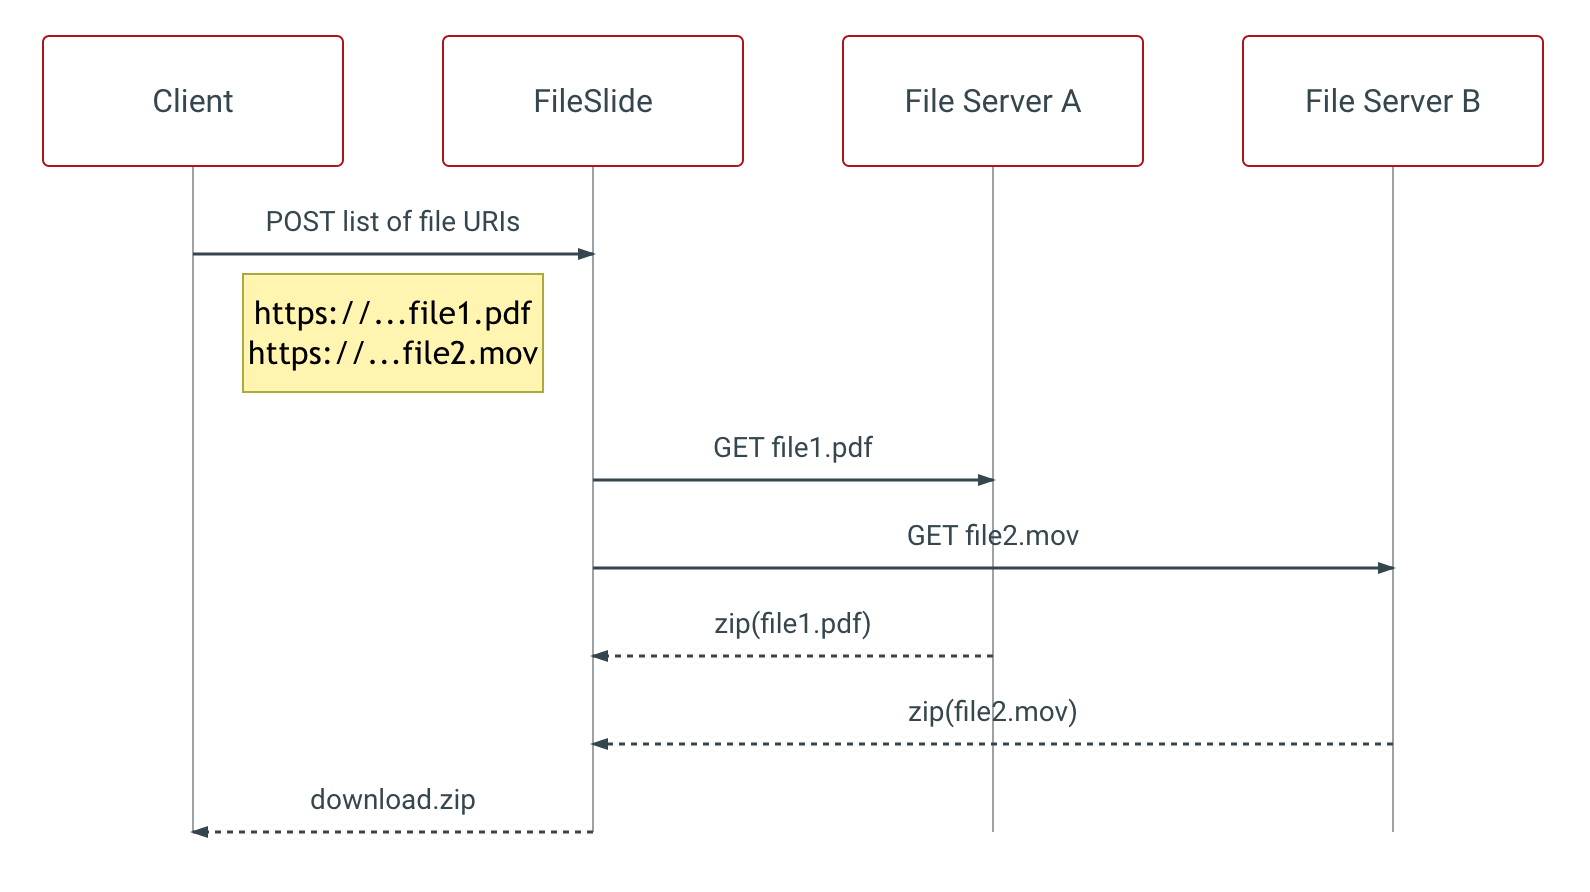
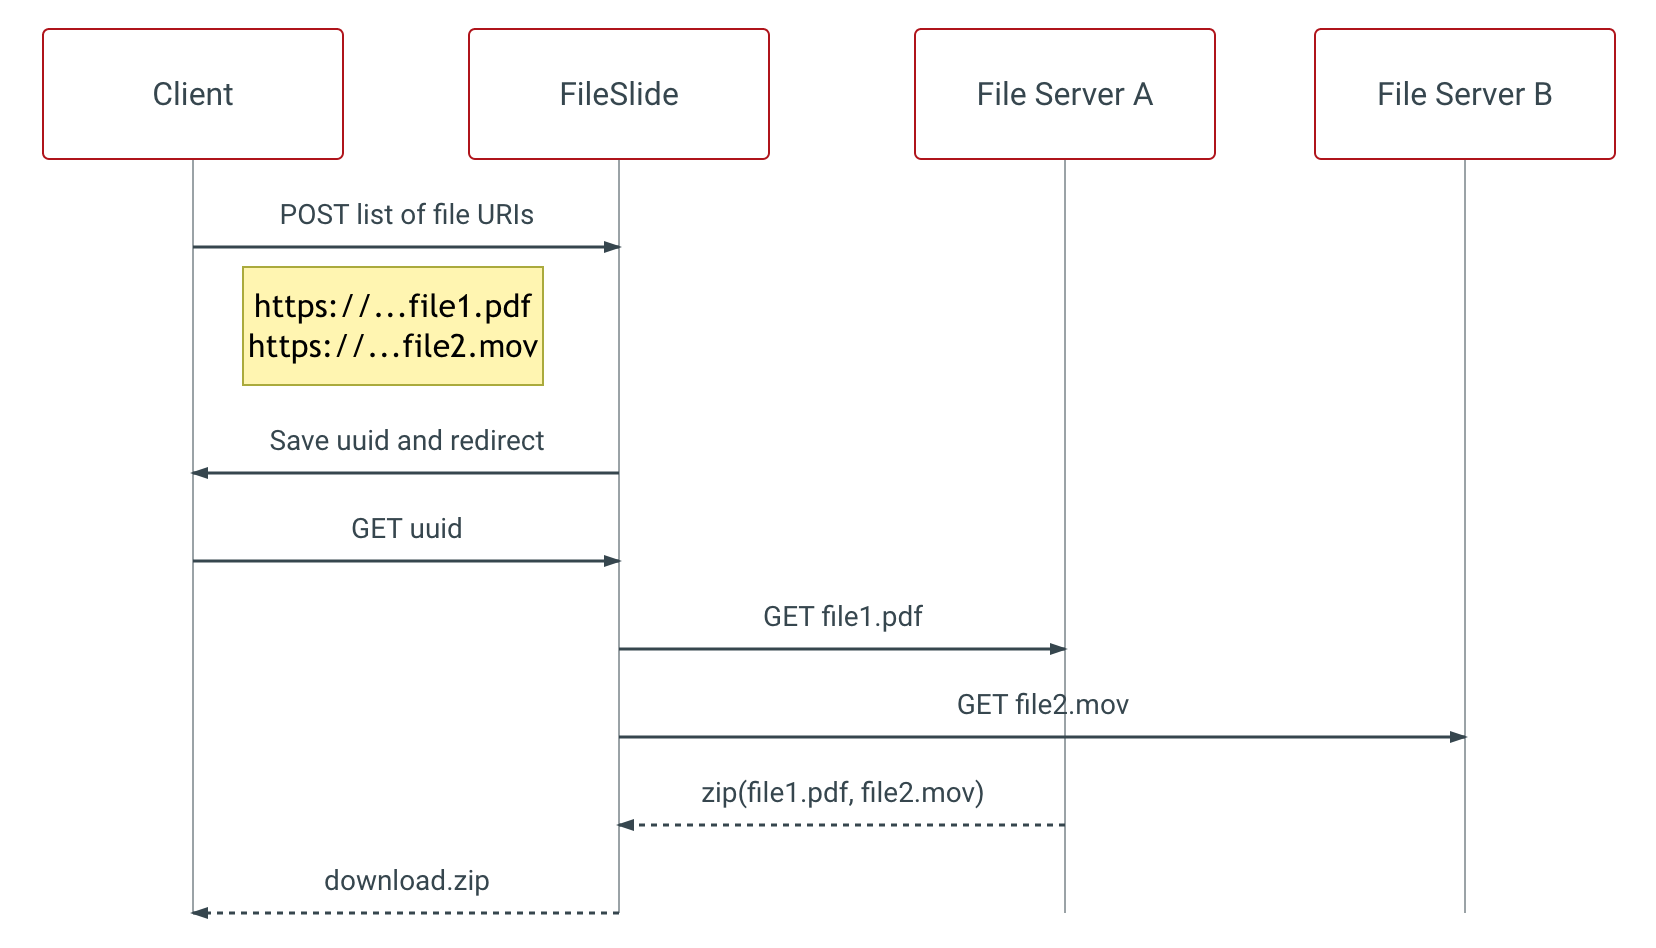
doc: post-get redirect

diff --git a/README.md b/README.md
@@ -28,7 +28,7 @@ Open Source drop-in service for downloading multiple files as a single zip strea
 
 ## Try the demo [https://hello.fileslide.io/](https://hello.fileslide.io/)
 
-FileSlide Streamer is a Ruby server that: (1) receives a request containing a list of file URIs; (2) downloads and zips the listed files in parallel; and (3) returns a single zip file.
+FileSlide Streamer is a Ruby Sinatra HTTP server that: (1) receives a POST request containing a list of file URIs; (2) saves and redirects to a GET request; (3) downloads and zips the listed files in parallel; and (4) returns a single zip file.
 
 ![Sequence Diagram](doc/fileslide-streamer-seq-diagram.png)
 
